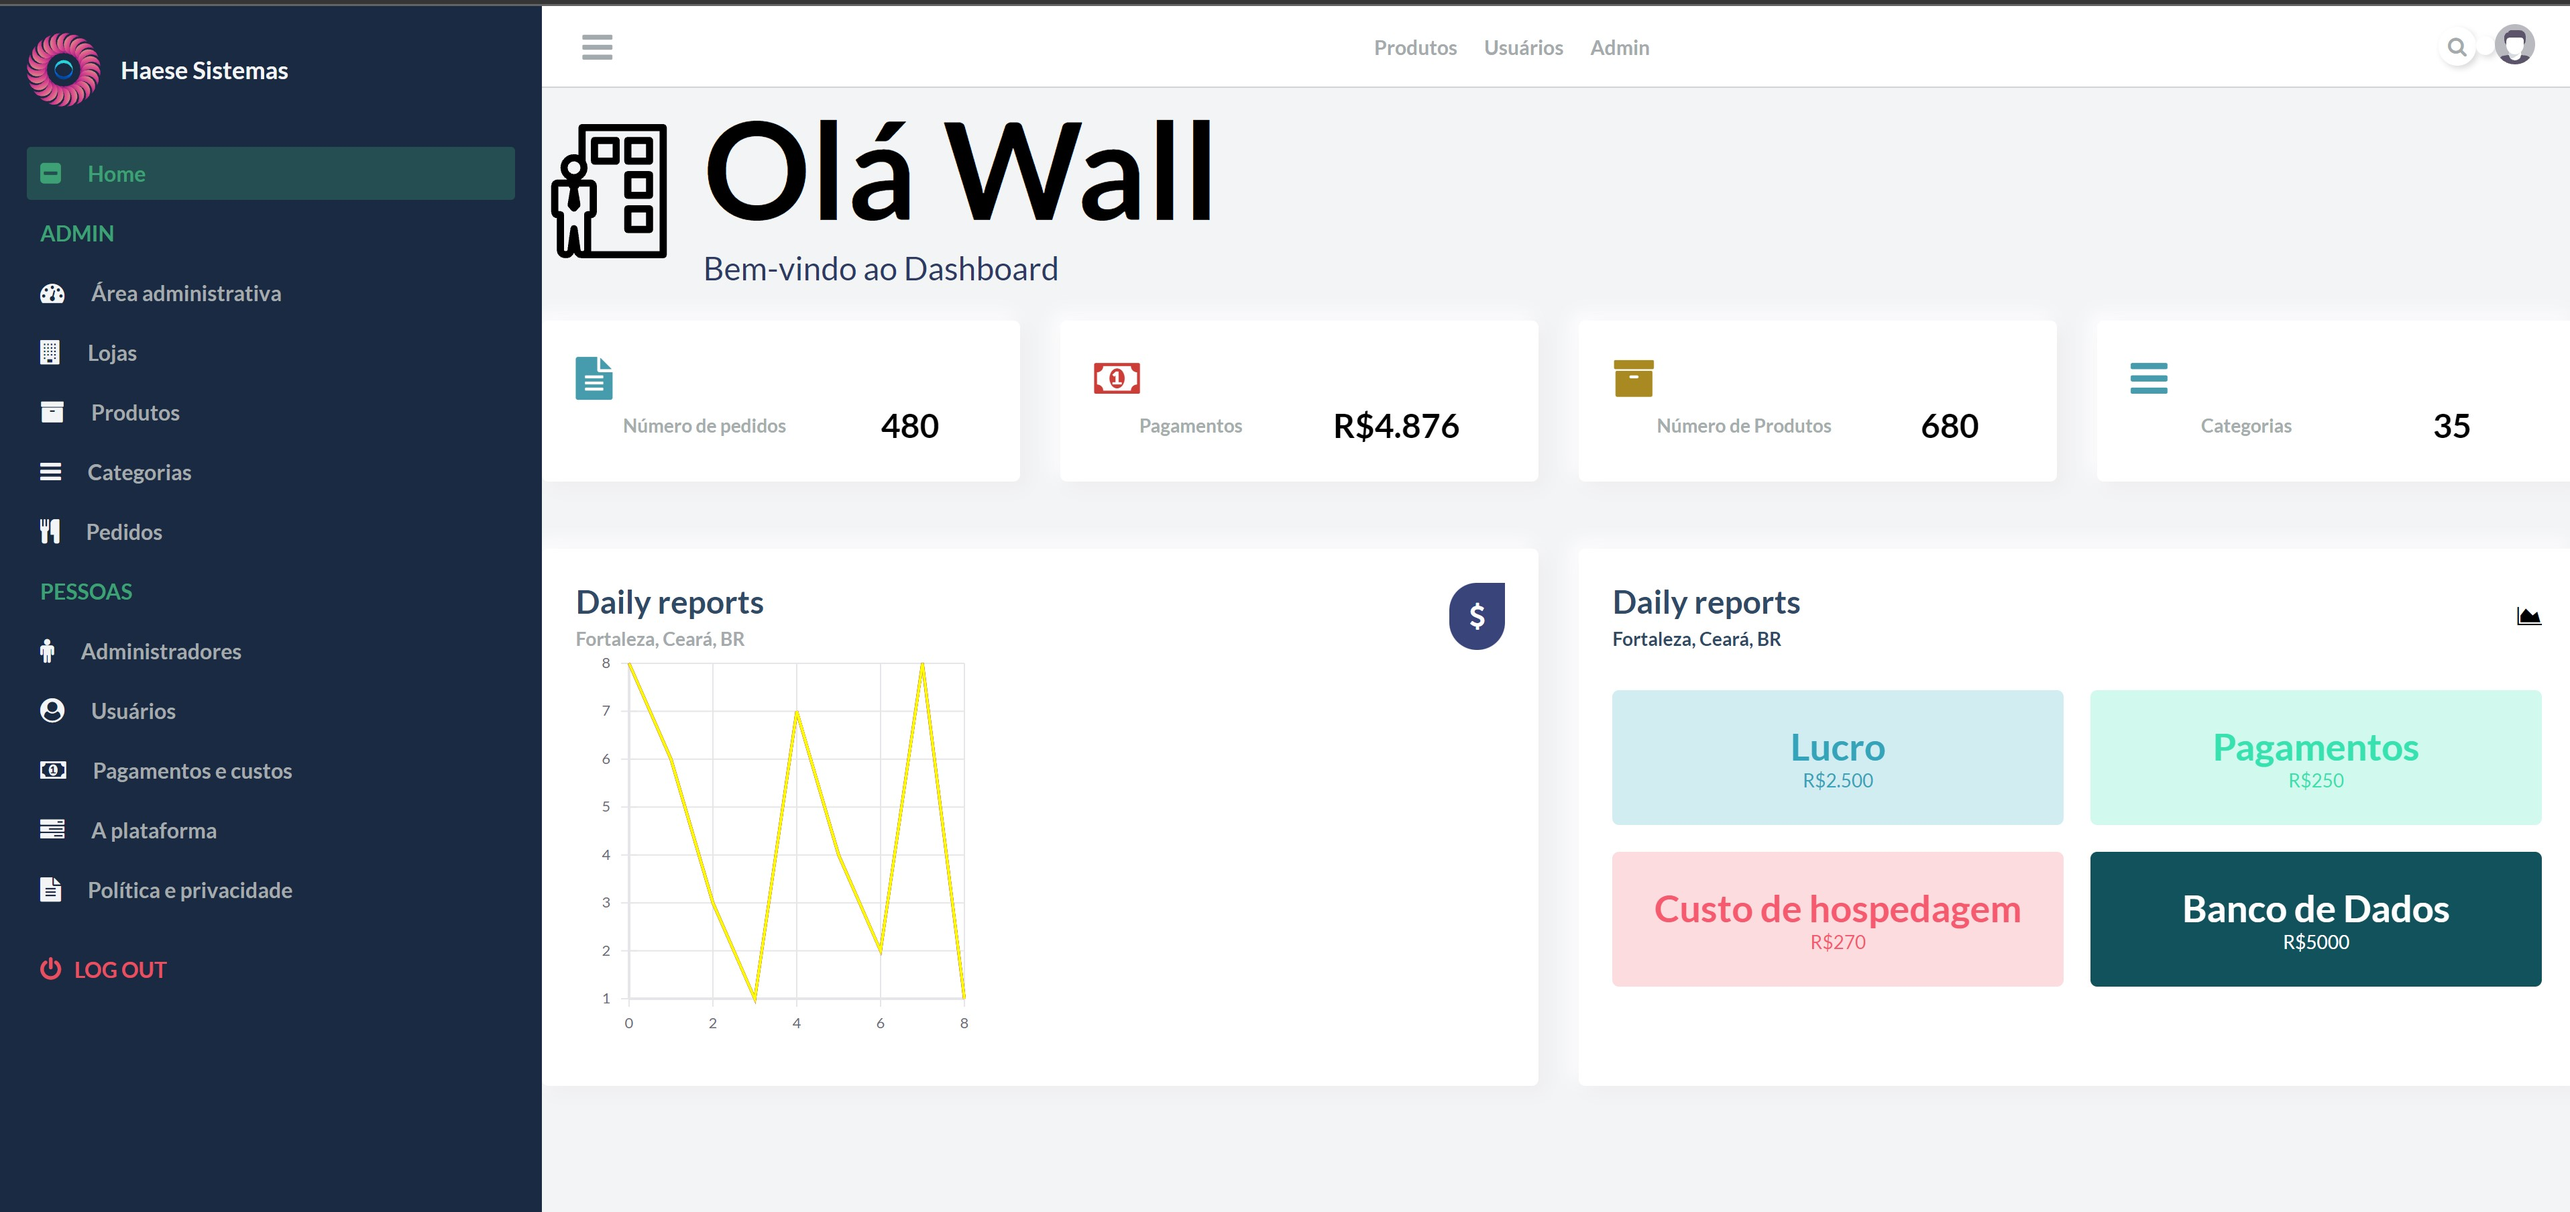
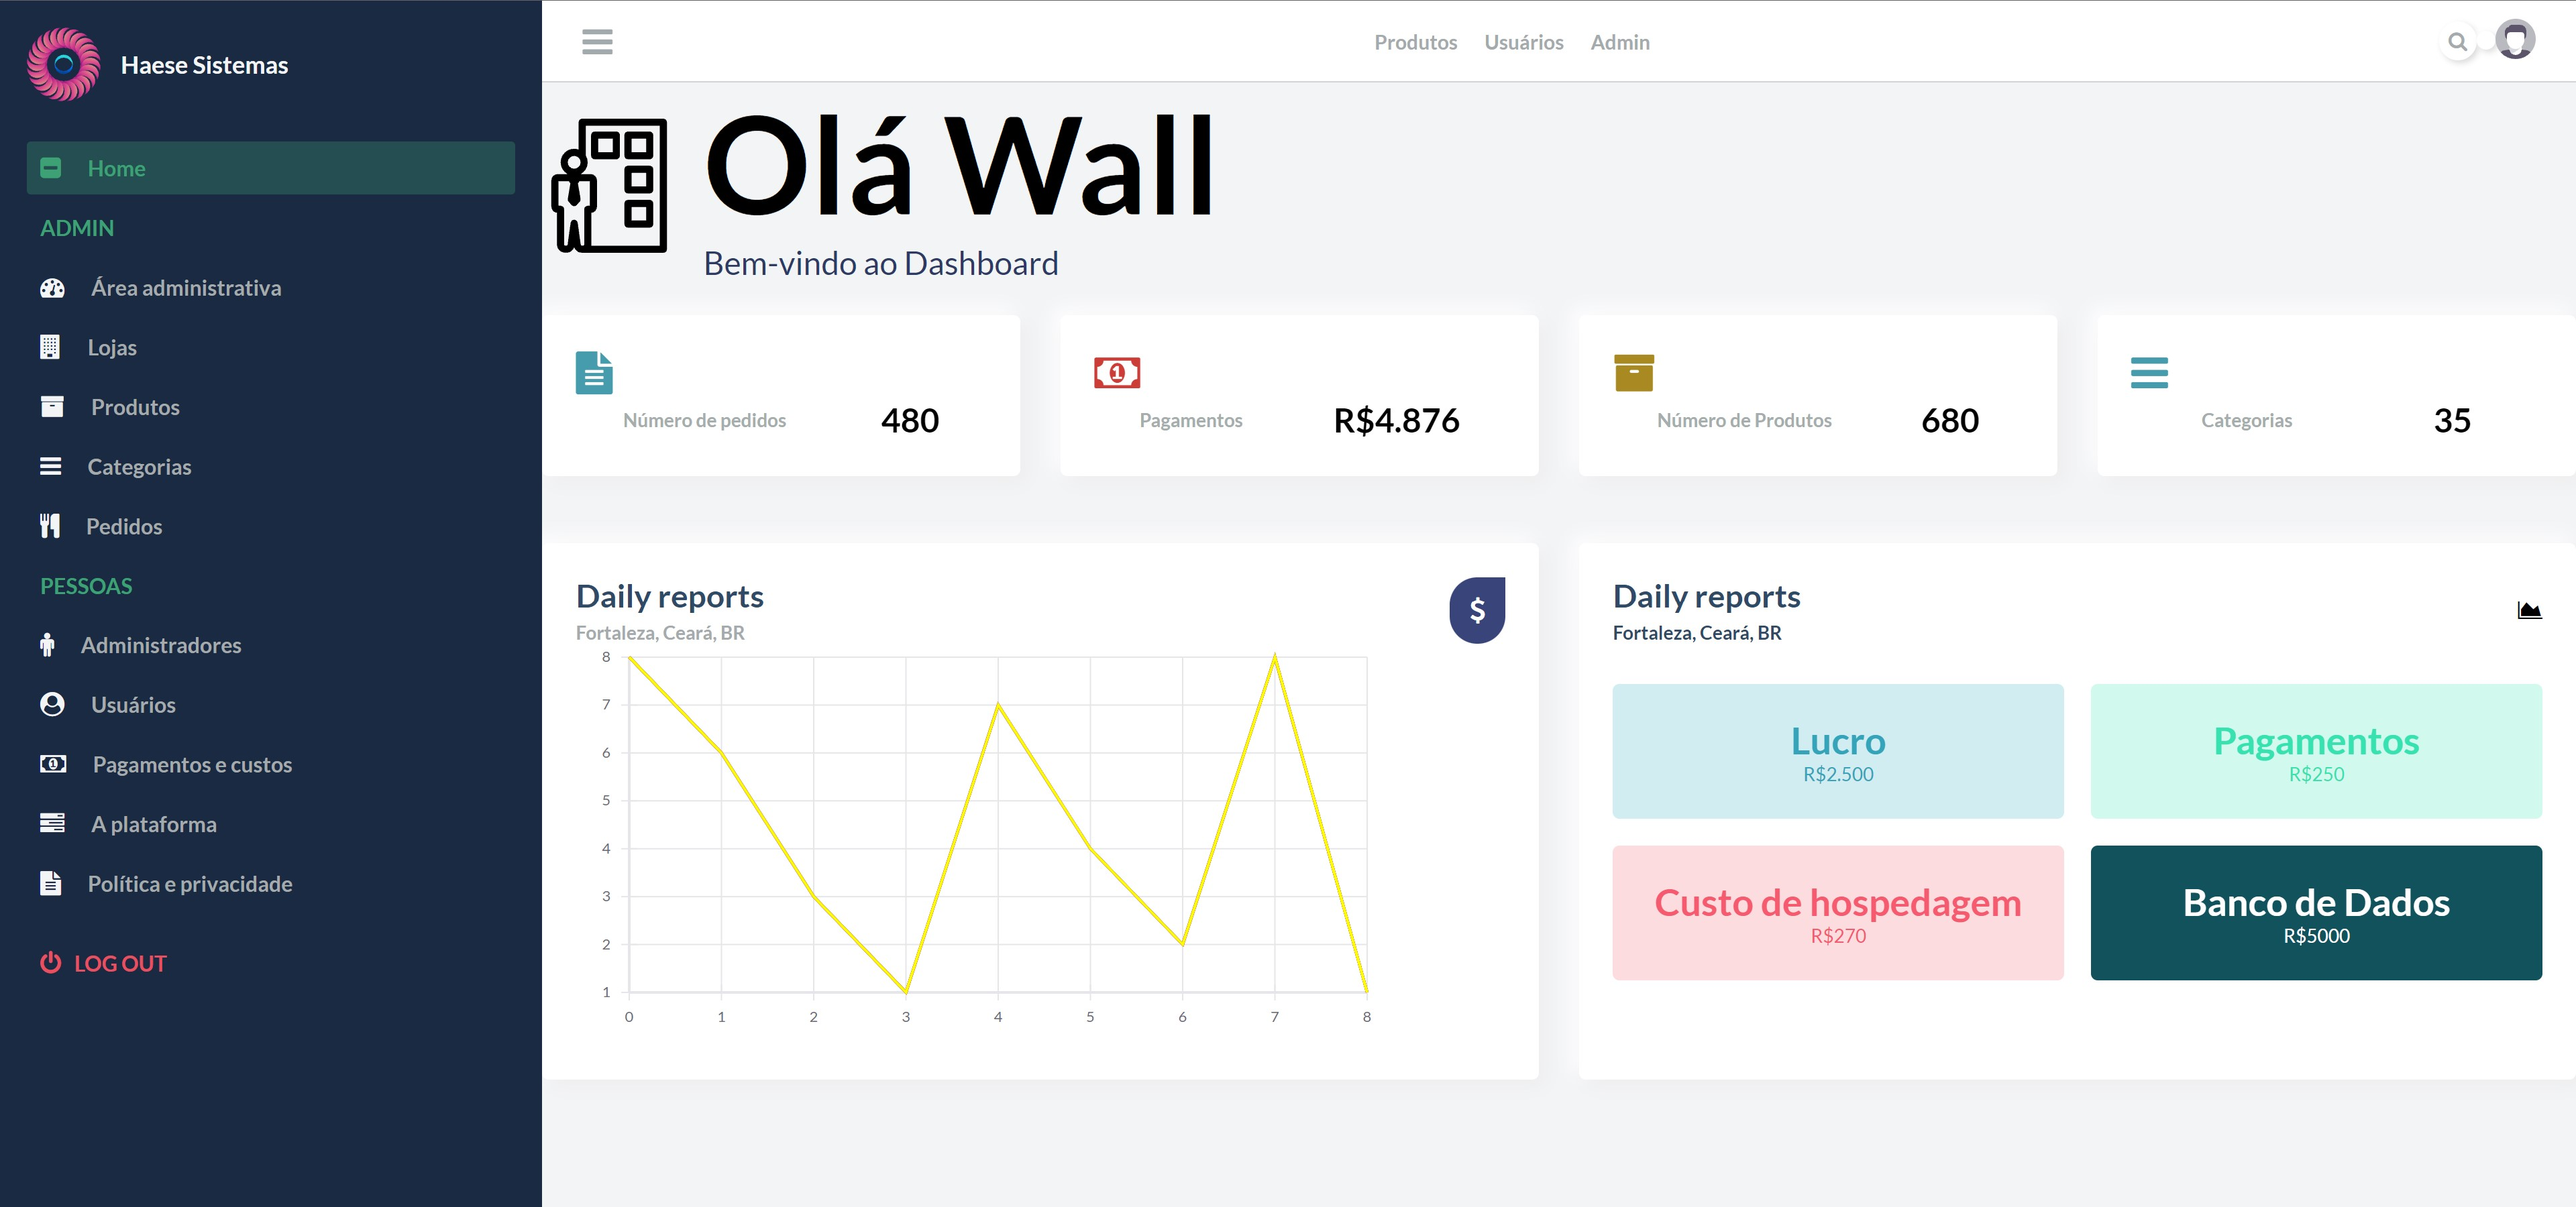
Changing some CSS and updating preview image

diff --git a/src/components/charts/Chart.js b/src/components/charts/Chart.js
@@ -16,7 +16,7 @@ const Chart = () => {
 
     return (
         <div className={{marginTop: '15px'}}>
-            <XYPlot height={300} width={300} >
+            <XYPlot height={300} width={600} >
                 <VerticalGridLines/>
                 <HorizontalGridLines />
                 <XAxis />
